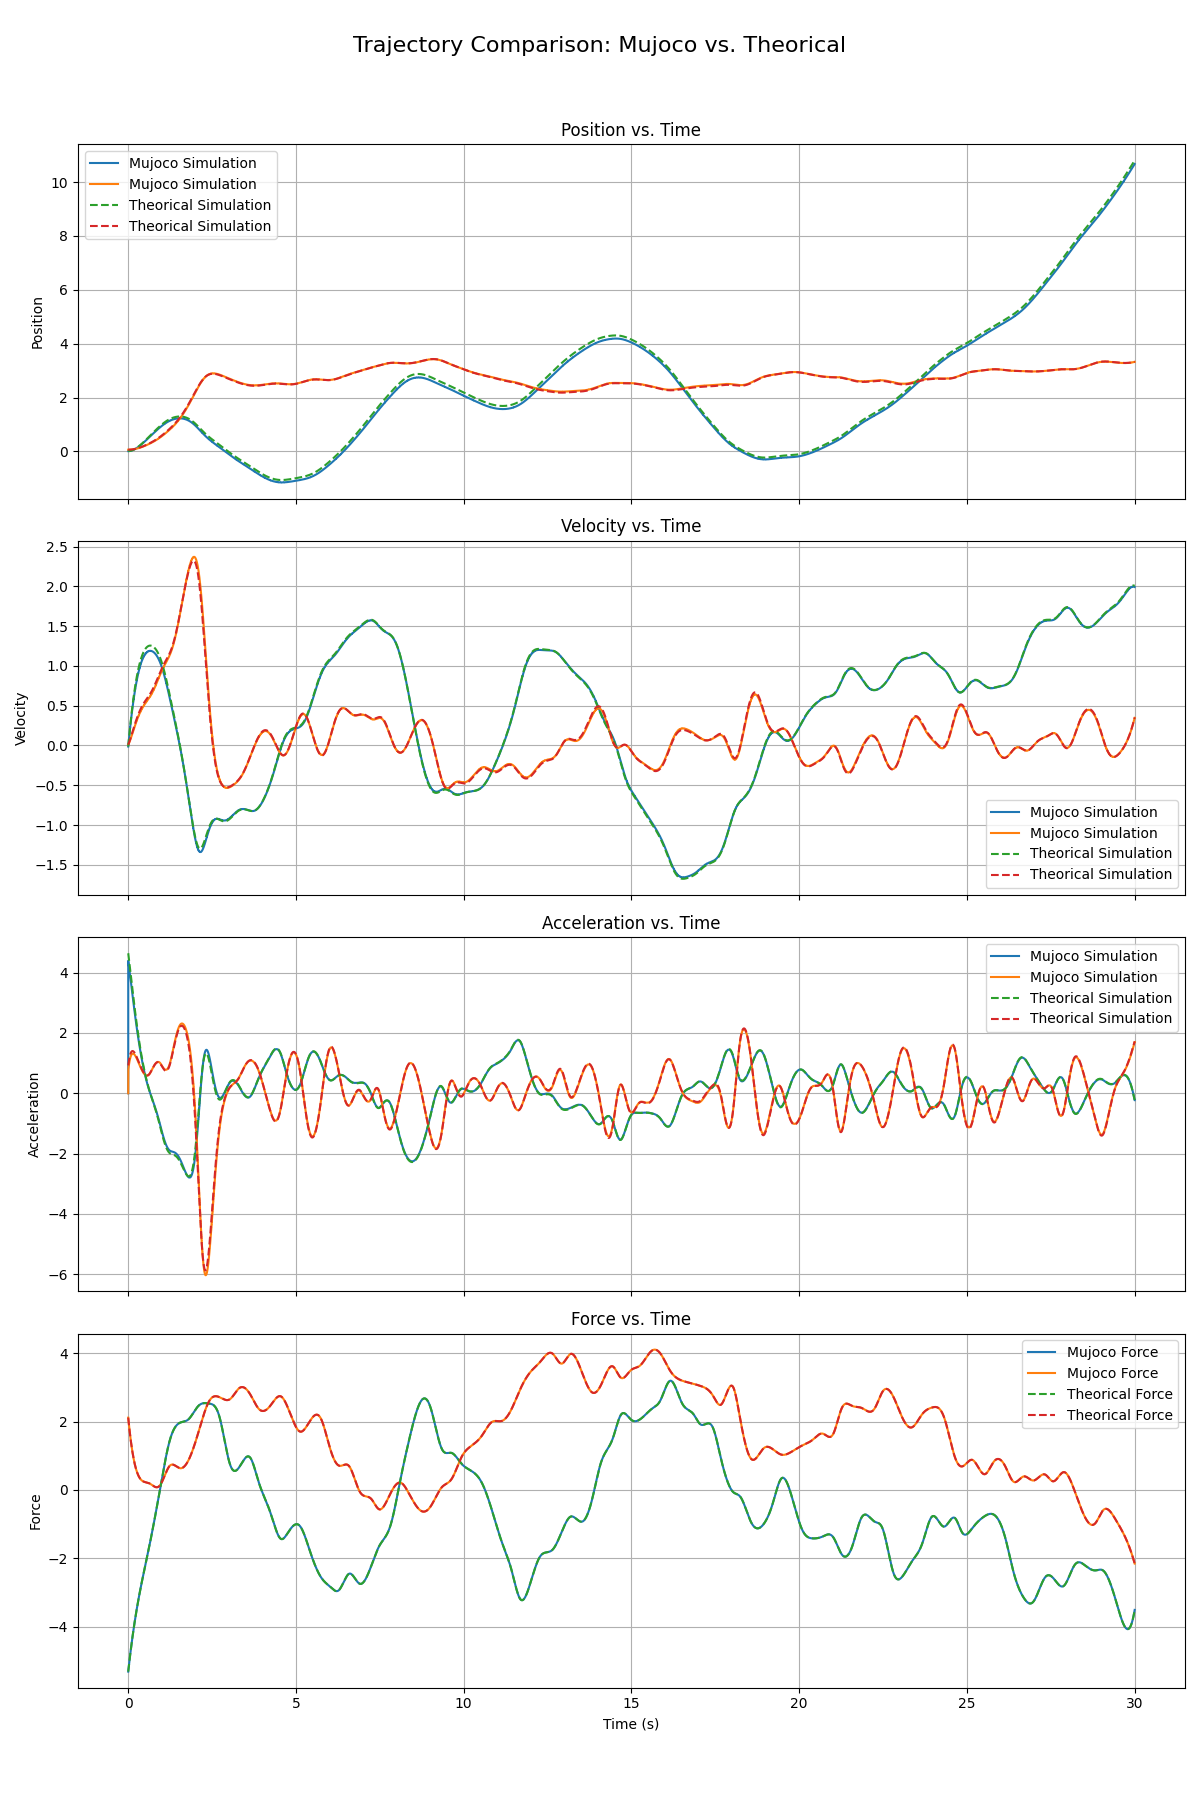
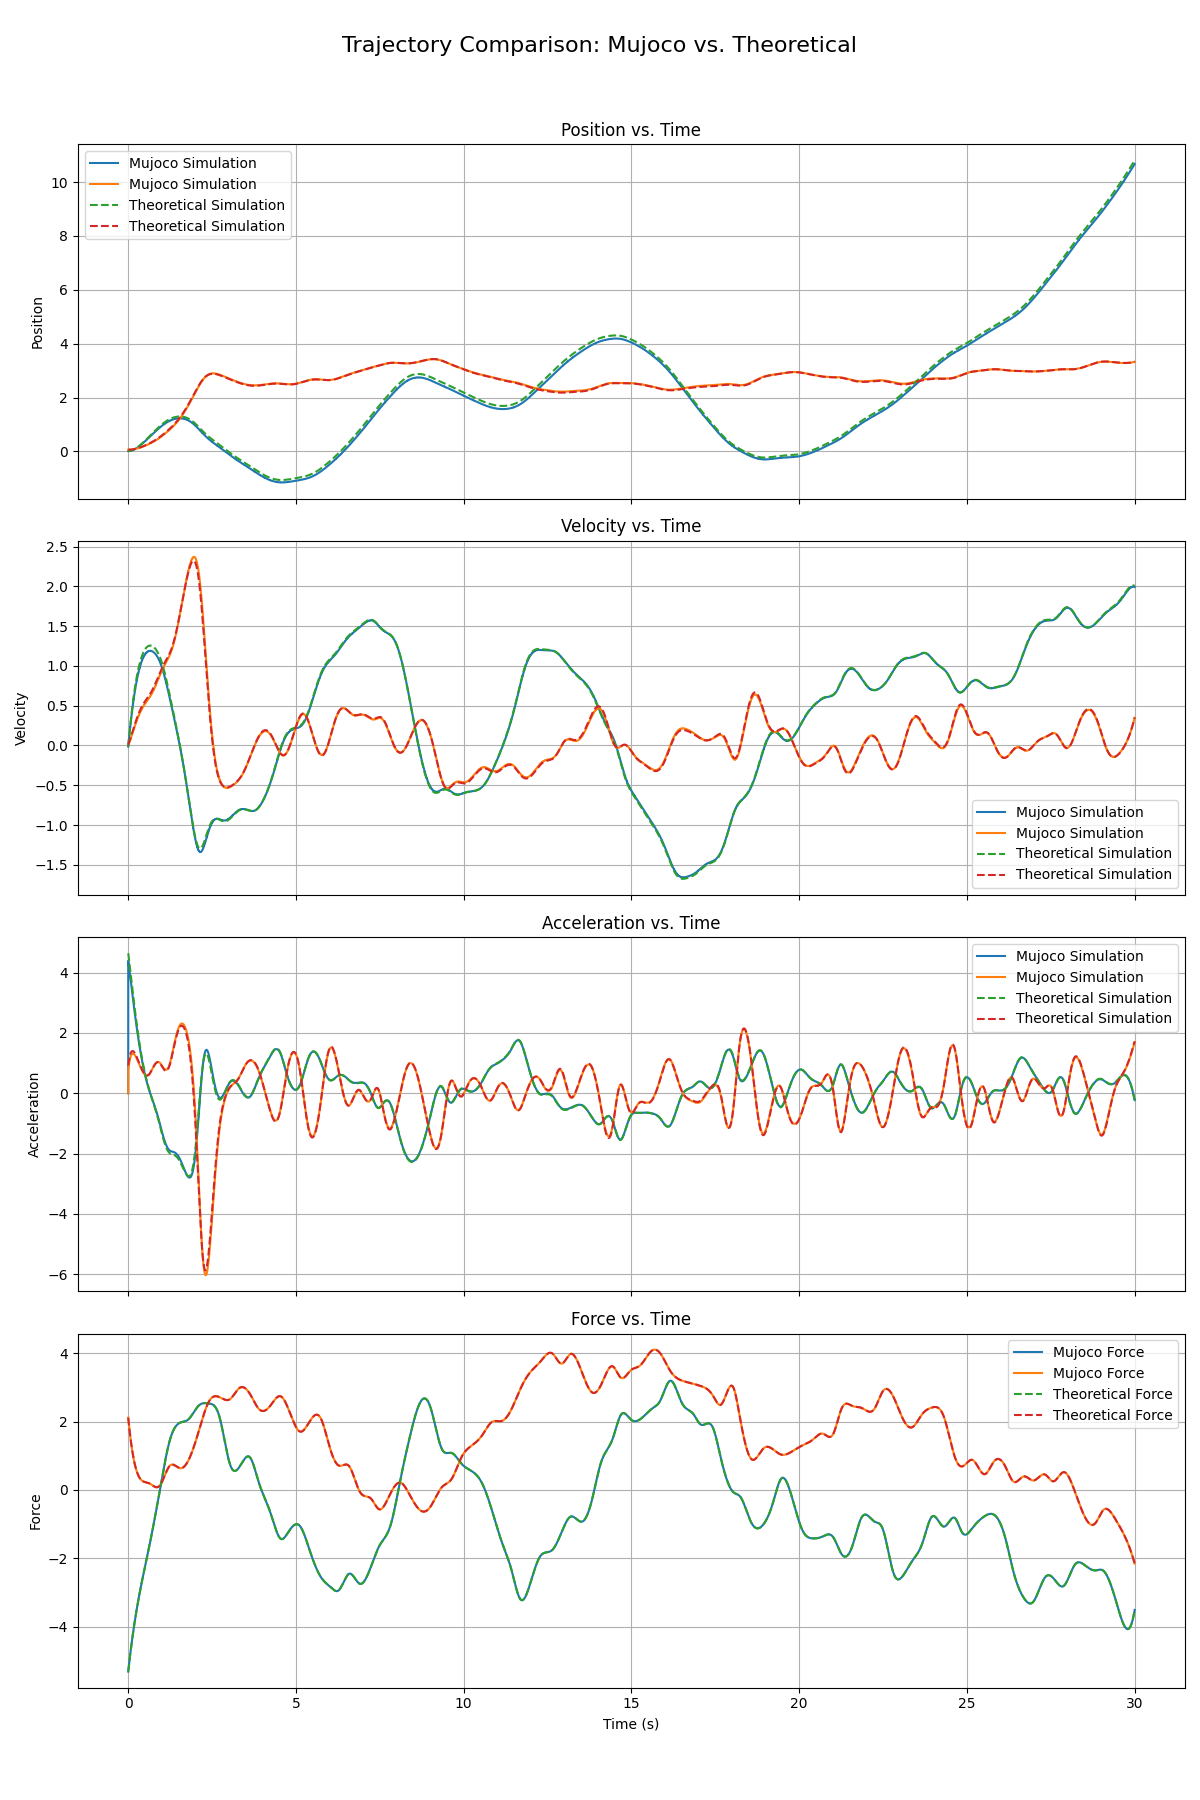
changed spelling error: theorical/theortical -> theoretical

diff --git a/example/minimal_example.py b/example/minimal_example.py
@@ -13,7 +13,7 @@ The identified model is then simulated and compared to the original data.
 import numpy as np
 import sympy as sp 
 import xlsindy
-from generate_trajectory import generate_mujoco_trajectory,generate_theorical_trajectory
+from generate_trajectory import generate_mujoco_trajectory,generate_theoretical_trajectory
 from xlsindy.logger import setup_logger
 from xlsindy.optimization import lasso_regression
 import time
@@ -225,7 +225,7 @@ if __name__=="__main__":
          simulation_qvel_vs, 
          simulation_qacc_vs, 
          force_vector_vs,
-         _) = generate_theorical_trajectory(
+         _) = generate_theoretical_trajectory(
              num_coordinates,
              initial_position,
              initial_condition_randomness,
@@ -243,11 +243,11 @@ if __name__=="__main__":
         
         # Create a figure with 4 subplots stacked vertically
         fig, axes = plt.subplots(4, 1, figsize=(12, 18), sharex=True)
-        fig.suptitle('Trajectory Comparison: Mujoco vs. Theorical', fontsize=16)
+        fig.suptitle('Trajectory Comparison: Mujoco vs. Theoretical', fontsize=16)
 
         # --- 1. Plot Position Data ---
         axes[0].plot(simulation_time_v, simulation_qpos_v, label='Mujoco Simulation')
-        axes[0].plot(simulation_time_vs, simulation_qpos_vs, label='Theorical Simulation', linestyle='--')
+        axes[0].plot(simulation_time_vs, simulation_qpos_vs, label='Theoretical Simulation', linestyle='--')
         axes[0].set_title('Position vs. Time')
         axes[0].set_ylabel('Position')
         axes[0].legend()
@@ -255,7 +255,7 @@ if __name__=="__main__":
 
         # --- 2. Plot Velocity Data ---
         axes[1].plot(simulation_time_v, simulation_qvel_v, label='Mujoco Simulation')
-        axes[1].plot(simulation_time_vs, simulation_qvel_vs, label='Theorical Simulation', linestyle='--')
+        axes[1].plot(simulation_time_vs, simulation_qvel_vs, label='Theoretical Simulation', linestyle='--')
         axes[1].set_title('Velocity vs. Time')
         axes[1].set_ylabel('Velocity')
         axes[1].legend()
@@ -263,7 +263,7 @@ if __name__=="__main__":
 
         # --- 3. Plot Acceleration Data ---
         axes[2].plot(simulation_time_v, simulation_qacc_v, label='Mujoco Simulation')
-        axes[2].plot(simulation_time_vs, simulation_qacc_vs, label='Theorical Simulation', linestyle='--')
+        axes[2].plot(simulation_time_vs, simulation_qacc_vs, label='Theoretical Simulation', linestyle='--')
         axes[2].set_title('Acceleration vs. Time')
         axes[2].set_ylabel('Acceleration')
         axes[2].legend()
@@ -271,7 +271,7 @@ if __name__=="__main__":
 
         # --- 4. Plot Force Data ---
         axes[3].plot(simulation_time_v, force_vector_v, label='Mujoco Force')
-        axes[3].plot(simulation_time_vs, force_vector_vs, label='Theorical Force', linestyle='--')
+        axes[3].plot(simulation_time_vs, force_vector_vs, label='Theoretical Force', linestyle='--')
         axes[3].set_title('Force vs. Time')
         axes[3].set_ylabel('Force')
         axes[3].set_xlabel('Time (s)')

diff --git a/example/generate_trajectory.py b/example/generate_trajectory.py
@@ -18,7 +18,7 @@ import json
 
 logger = logging.getLogger(__name__)
 
-def generate_theorical_trajectory(
+def generate_theoretical_trajectory(
     num_coordinates: int,
     initial_position: np.ndarray,
     initial_condition_randomness: np.ndarray,
@@ -35,7 +35,7 @@ def generate_theorical_trajectory(
 ):
     """
     [INFO] maybe I should but this function inside the main library.
-    Generate a theortical trajectory using theorical background.
+    Generate a theoretical trajectory using theoretical background.
 
     Args:
 
@@ -92,12 +92,12 @@ def generate_theorical_trajectory(
         )
 
         model_dynamics_system = xlsindy.dynamics_modeling.dynamics_function(model_acceleration_func,forces_function) 
-        logger.info("Theorical initialized")
+        logger.info("theoretical initialized")
         try:
             simulation_time_m, phase_values = xlsindy.dynamics_modeling.run_rk45_integration(model_dynamics_system, initial_condition, max_time, max_step=0.005)
         except Exception as e:
             logger.error(f"An error occurred on the RK45 integration: {e}")
-        logger.info("Theorical simulation done")
+        logger.info("theoretical simulation done")
 
         simulation_qpos_m = phase_values[:, ::2]
         simulation_qvel_m = phase_values[:, 1::2]
